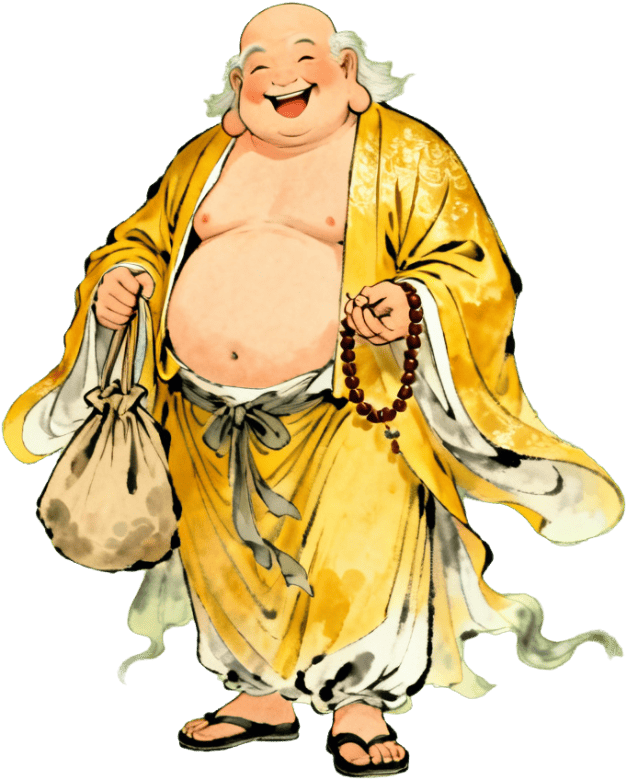
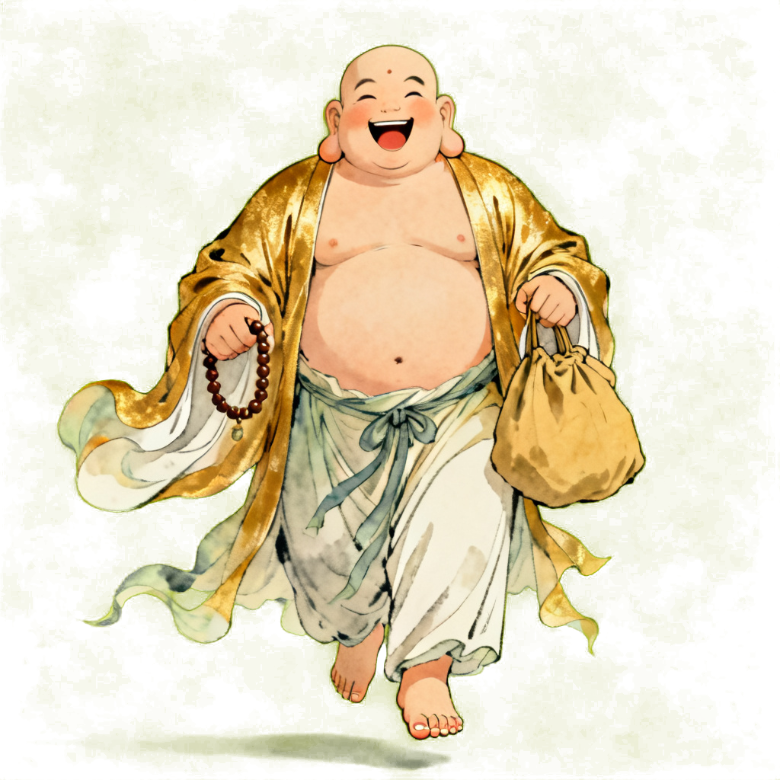
fix(art): 修四张立绘 + PvP 对方单位方向镜像
立绘修复：
- 唐僧：重生成绿幕，清掉背景黄色残留
- 哪吒：去风火轮（双脚自然悬浮，不再画轮胎状轮子）
- 弥勒佛：改赤脚，去人字拖
- 小妖：重生成白底，清掉白色杂块
- 图鉴按钮：缩小卷轴图标、对齐设置按钮的文字占比

PvP 修复：
- drawUnit 增加 side 参数，AI 侧单位默认水平镜像
- 真人对战时对方单位不再和玩家同向，改为面朝相反方向

diff --git a/web/src/game-assets/manifest-generated.ts b/web/src/game-assets/manifest-generated.ts
@@ -27,13 +27,13 @@ export const HASHED_URLS: Record<string, string> = {
   "hero-jinzha.png": "https://user-growth.tos-cn-shanghai.volces.com/dev/xy/hero-jinzha-3f17289e.png",
   "hero-laojun.png": "https://user-growth.tos-cn-shanghai.volces.com/dev/xy/hero-laojun-ffb1aa61.png",
   "hero-liusha.png": "https://user-growth.tos-cn-shanghai.volces.com/dev/xy/hero-liusha-48e6d774.png",
-  "hero-mile.png": "https://user-growth.tos-cn-shanghai.volces.com/dev/xy/hero-mile-c740a819.png",
-  "hero-nezha.png": "https://user-growth.tos-cn-shanghai.volces.com/dev/xy/hero-nezha-54a4dcc6.png",
+  "hero-mile.png": "https://user-growth.tos-cn-shanghai.volces.com/dev/xy/hero-mile-cbcf0e23.png",
+  "hero-nezha.png": "https://user-growth.tos-cn-shanghai.volces.com/dev/xy/hero-nezha-70c88087.png",
   "hero-niulang.png": "https://user-growth.tos-cn-shanghai.volces.com/dev/xy/hero-niulang-4af35259.png",
   "hero-niumowang.png": "https://user-growth.tos-cn-shanghai.volces.com/dev/xy/hero-niumowang-ae9c378d.png",
   "hero-qingniu.png": "https://user-growth.tos-cn-shanghai.volces.com/dev/xy/hero-qingniu-bfe89715.png",
   "hero-shaseng.png": "https://user-growth.tos-cn-shanghai.volces.com/dev/xy/hero-shaseng-0abf6cdf.png",
-  "hero-tangseng-hero.png": "https://user-growth.tos-cn-shanghai.volces.com/dev/xy/hero-tangseng-hero-8cd2e1ac.png",
+  "hero-tangseng-hero.png": "https://user-growth.tos-cn-shanghai.volces.com/dev/xy/hero-tangseng-hero-582ee50f.png",
   "hero-tiebei.png": "https://user-growth.tos-cn-shanghai.volces.com/dev/xy/hero-tiebei-4d9eeaec.png",
   "hero-tieshan.png": "https://user-growth.tos-cn-shanghai.volces.com/dev/xy/hero-tieshan-4c12ff94.png",
   "hero-ttg.png": "https://user-growth.tos-cn-shanghai.volces.com/dev/xy/hero-ttg-af240603.png",
@@ -48,7 +48,7 @@ export const HASHED_URLS: Record<string, string> = {
   "map-liushahe.jpg": "https://user-growth.tos-cn-shanghai.volces.com/dev/xy/map-liushahe-19084433.jpg",
   "map-pansidong.jpg": "https://user-growth.tos-cn-shanghai.volces.com/dev/xy/map-pansidong-7ba67b73.jpg",
   "menu-btn-bag.png": "https://user-growth.tos-cn-shanghai.volces.com/dev/xy/menu-btn-bag-6c9e6352.png",
-  "menu-btn-codex.png": "https://user-growth.tos-cn-shanghai.volces.com/dev/xy/menu-btn-codex-c0bd5e9a.png",
+  "menu-btn-codex.png": "https://user-growth.tos-cn-shanghai.volces.com/dev/xy/menu-btn-codex-a99654f8.png",
   "menu-btn-map.png": "https://user-growth.tos-cn-shanghai.volces.com/dev/xy/menu-btn-map-62cfafce.png",
   "menu-btn-rank.png": "https://user-growth.tos-cn-shanghai.volces.com/dev/xy/menu-btn-rank-afc9940e.png",
   "menu-btn-settings.png": "https://user-growth.tos-cn-shanghai.volces.com/dev/xy/menu-btn-settings-ac583d9e.png",
@@ -77,7 +77,7 @@ export const HASHED_URLS: Record<string, string> = {
   "monster-minion-huoyanshan.png": "https://user-growth.tos-cn-shanghai.volces.com/dev/xy/monster-minion-huoyanshan-ab0ac08e.png",
   "monster-minion-liushahe.png": "https://user-growth.tos-cn-shanghai.volces.com/dev/xy/monster-minion-liushahe-40ba3535.png",
   "monster-minion-pansidong.png": "https://user-growth.tos-cn-shanghai.volces.com/dev/xy/monster-minion-pansidong-5a58c626.png",
-  "monster-minion.png": "https://user-growth.tos-cn-shanghai.volces.com/dev/xy/monster-minion-6d8d01ee.png",
+  "monster-minion.png": "https://user-growth.tos-cn-shanghai.volces.com/dev/xy/monster-minion-bea830c7.png",
   "rank-star-off.png": "https://user-growth.tos-cn-shanghai.volces.com/dev/xy/rank-star-off-b059013e.png",
   "rank-star-on.png": "https://user-growth.tos-cn-shanghai.volces.com/dev/xy/rank-star-on-a698c3b3.png",
   "skill-act-atk.png": "https://user-growth.tos-cn-shanghai.volces.com/dev/xy/skill-act-atk-f89fb3db.png",

diff --git a/web/src/render.ts b/web/src/render.ts
@@ -559,7 +559,18 @@ function battleBuffLines(
   return lines;
 }
 
-function drawUnit(ctx: CanvasRenderingContext2D, type: UnitType, tier: number, x: number, y: number, size: number, faceLeft = false, badge?: { x: number; y: number; s: number }, fallen = false) {
+function drawUnit(
+  ctx: CanvasRenderingContext2D,
+  type: UnitType,
+  tier: number,
+  x: number,
+  y: number,
+  size: number,
+  faceLeft = false,
+  badge?: { x: number; y: number; s: number },
+  fallen = false,
+  side: 'player' | 'ai' = 'player',
+) {
   const s = size;
   // 不再画类型色底座：棋盘格与托盘都直接用透明立绘，无背景色
   const spr = sprite(unitAsset(type));
@@ -571,16 +582,19 @@ function drawUnit(ctx: CanvasRenderingContext2D, type: UnitType, tier: number, x
     const dw = spr.width * scale;
     const dh = spr.height * scale;
     ctx.save();
+    // 根据 side 决定默认朝向：玩家侧默认面朝右，AI 侧默认面朝左（左右镜像）
+    // faceLeft 在此基础之上叠加「朝某方向攻击时」的翻转
+    const flip = side === 'ai' ? !faceLeft : faceLeft;
     if (fallen) {
       // 倒下：横躺 + 略压扁，与「无法攻击」状态对应
       ctx.translate(x, y + s * 0.08);
       ctx.rotate(Math.PI / 2);
       ctx.scale(1, 0.72);
-      if (faceLeft) { ctx.scale(-1, 1); }
+      if (flip) { ctx.scale(-1, 1); }
       ctx.drawImage(spr, -dw / 2, -dh / 2, dw, dh);
     } else {
-      // 刀/枪/弓/骑：朝左攻击时水平翻转立绘
-      if (faceLeft) { ctx.translate(x, 0); ctx.scale(-1, 1); ctx.translate(-x, 0); }
+      // 刀/枪/弓/骑：朝左攻击时水平翻转立绘（AI 侧默认已翻转，攻击反向时翻回）
+      if (flip) { ctx.translate(x, 0); ctx.scale(-1, 1); ctx.translate(-x, 0); }
       ctx.drawImage(spr, x - dw / 2, y - dh / 2, dw, dh);
     }
     ctx.restore();
@@ -9345,6 +9359,8 @@ function drawAiSide(ctx: CanvasRenderingContext2D, b: Battle) {
       unitSize,
       u.fireDir != null && Math.cos(u.fireDir) < 0,
       { x, y: y + drop.dy, s: CELL * 0.72 * drop.scale },
+      false,
+      'ai',
     );
     drawUnitWeapon(ctx, u.type, drawTier, x, uy, u.fireDir ?? Math.PI / 2, pulse, u.combo);
     const statuses = unitStatusItems(u);
